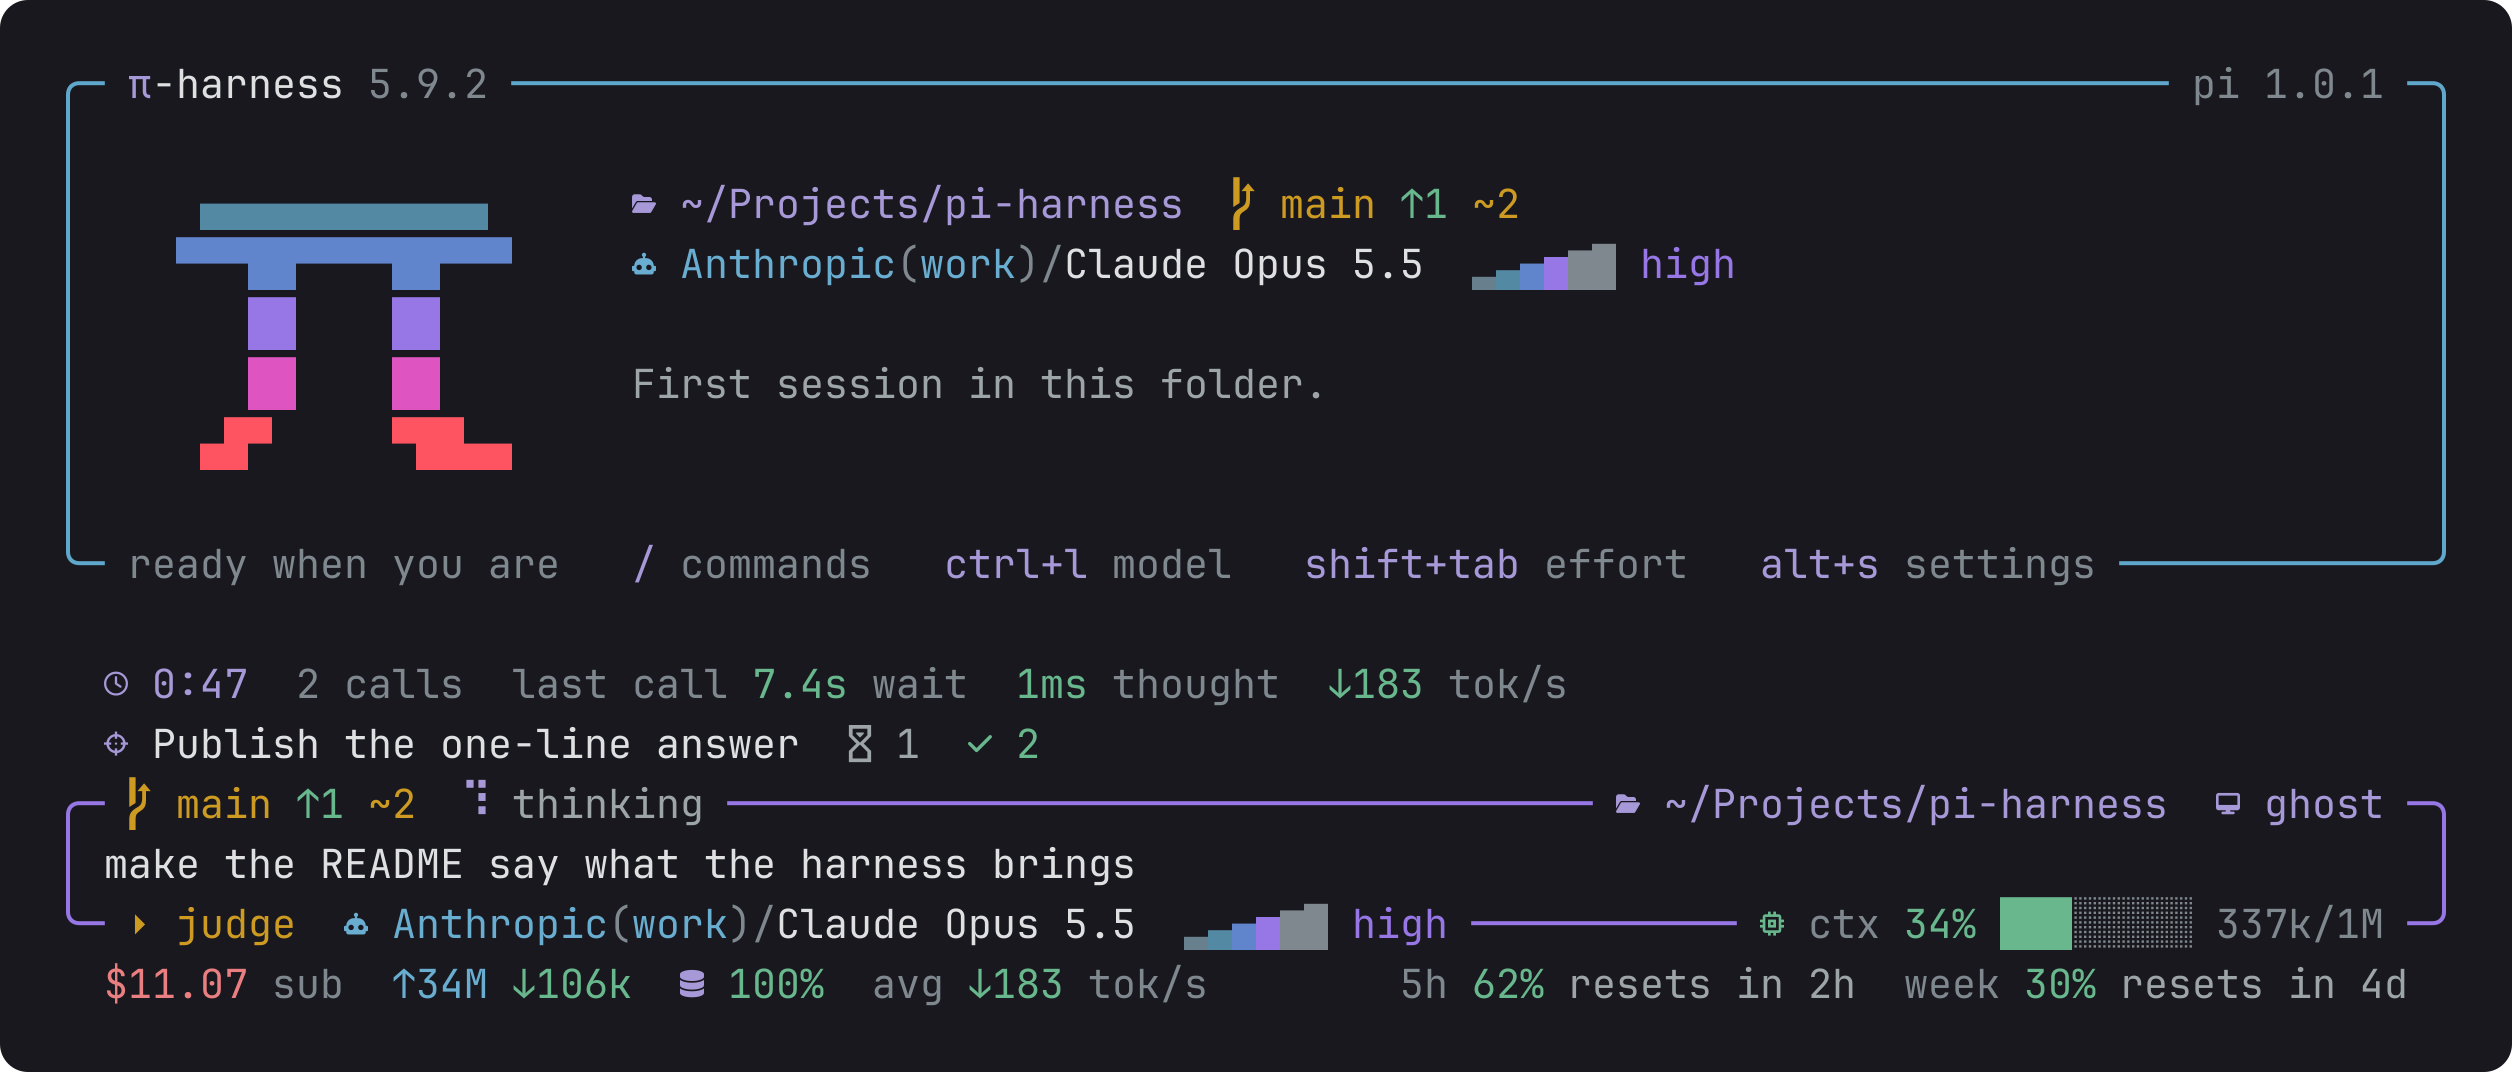
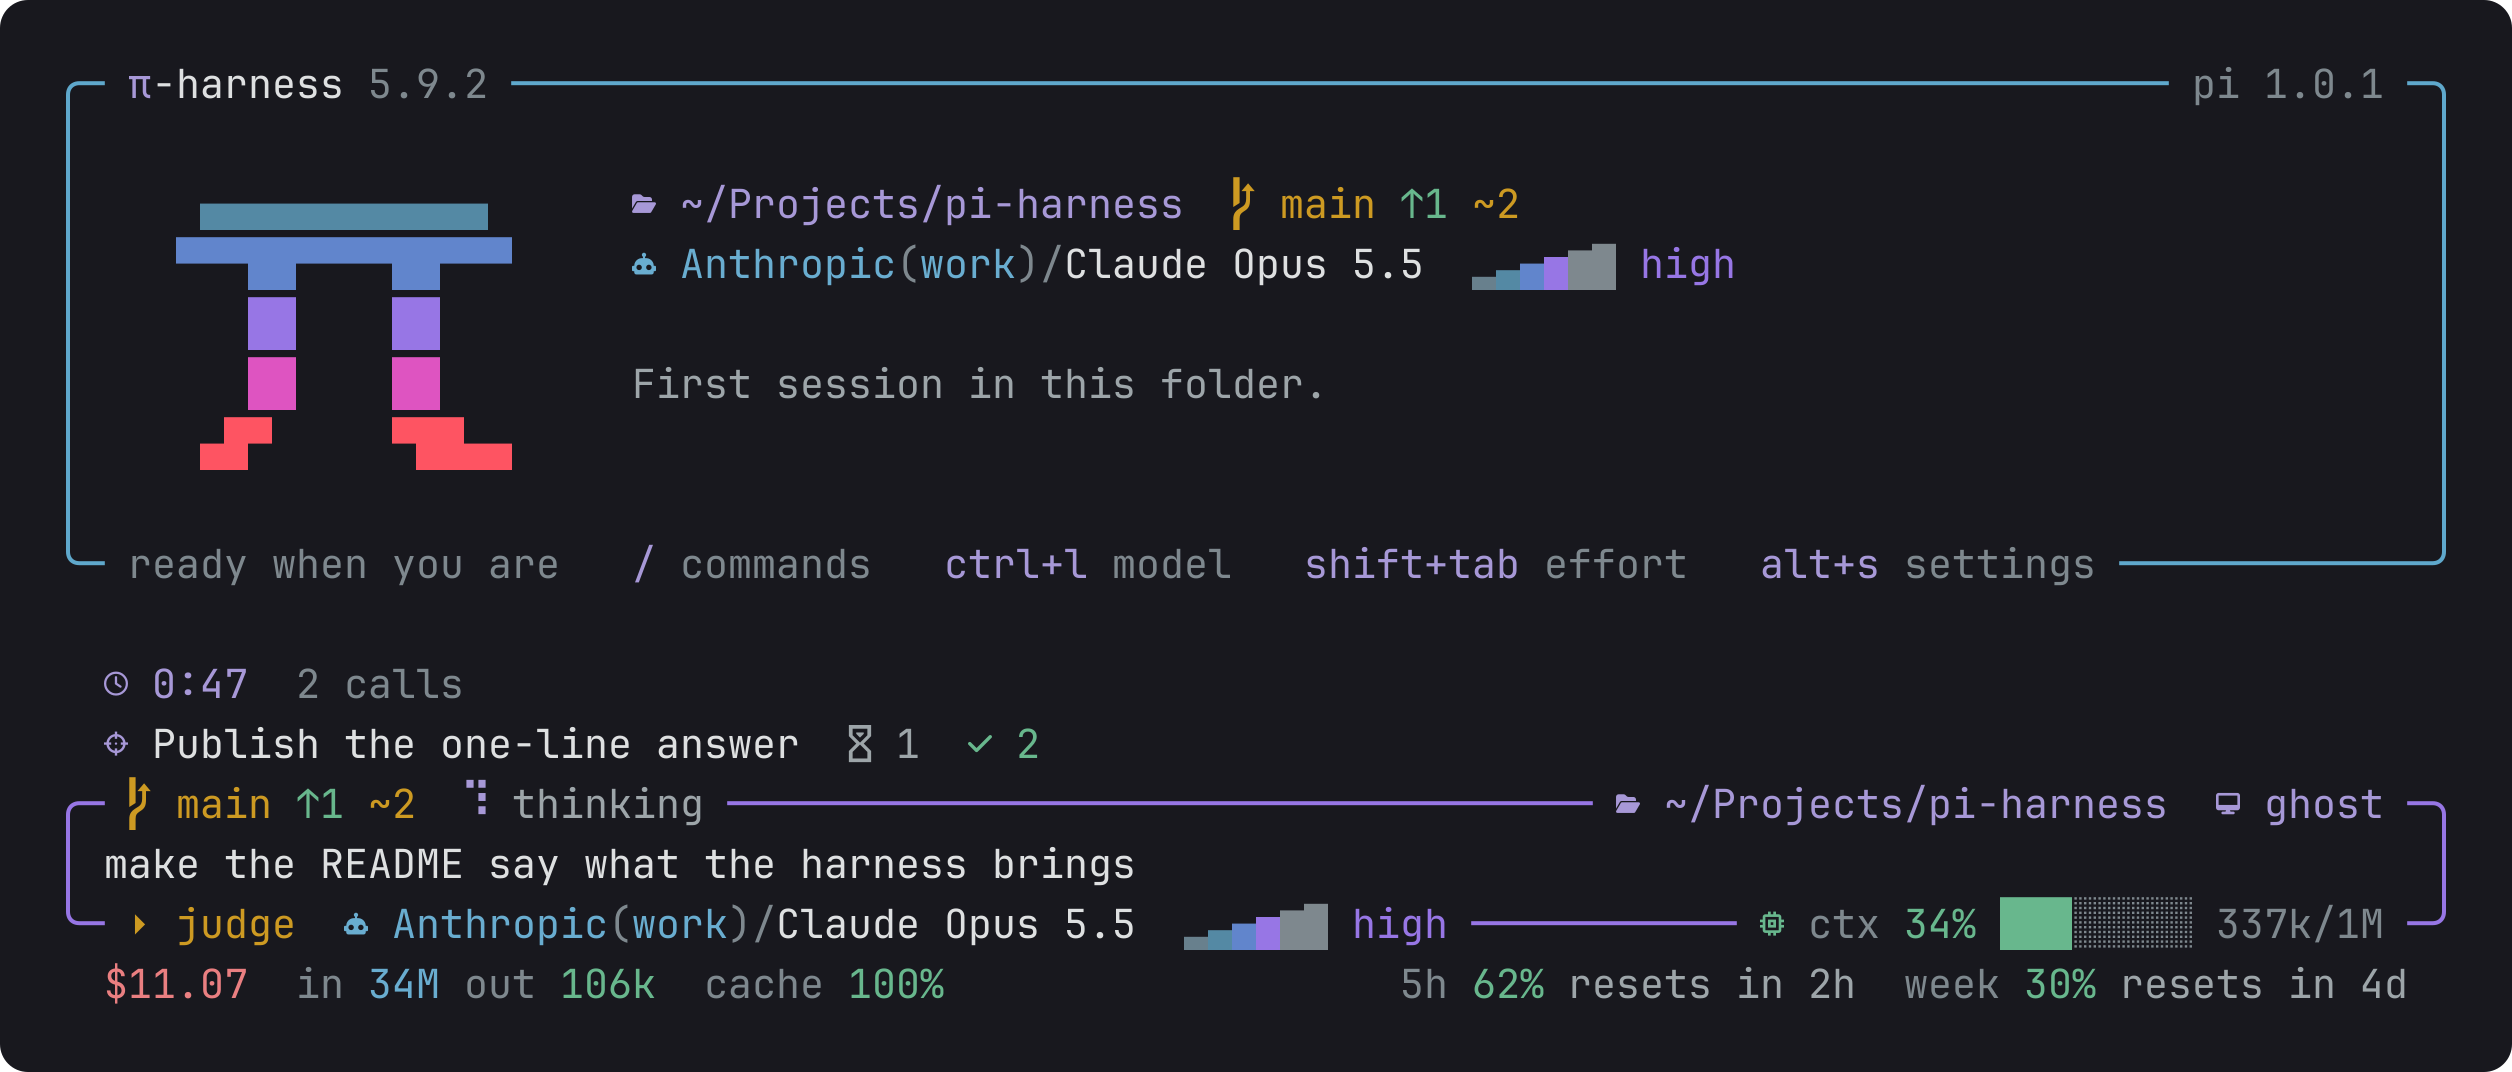
feat(look): the strip says how the run went once it ends, and every number below the editor has its word

diff --git a/packages/look/src/render/segments.ts b/packages/look/src/render/segments.ts
@@ -344,18 +344,18 @@ export const SEGMENTS: Record<BuiltinSegment, Segment> = {
 	elapsed: {
 		priority: 65,
 		describe:
-			"how long the agent has worked on this prompt, and how many calls to the model it made",
-		render: ({ snapshot, glyphs, paint, options }) => {
+			"the run: while the agent works, how long and how many calls to the model; once it answered, the same and what it cost",
+		render: ({ snapshot, glyphs, paint }) => {
 			const run = snapshot.run;
 			if (run === undefined) return undefined;
 			const role: Role = run.running ? "running" : "done";
 			const icon = mark(run.running ? glyphs.running : glyphs.done, paint, role);
 			const time = paint.role(role, stopwatch(run.elapsedMs));
-			const calls =
-				run.requests <= 1
-					? ""
-					: paint.dim(options.labels ? `  ${run.requests} calls` : ` ×${run.requests}`);
-			return { text: `${icon}${time}${calls}`, compact: `${icon}${time}` };
+			const lead = run.running ? time : `${paint.dim("answered in ")}${time}`;
+			const calls = run.requests <= 1 ? "" : paint.dim(`  ${run.requests} calls`);
+			const cost =
+				run.running || run.cost === 0 ? "" : `  ${paint.money(run.cost, money(run.cost))}`;
+			return { text: `${icon}${lead}${calls}${cost}`, compact: `${icon}${time}` };
 		},
 	},
 	last: {
@@ -440,9 +440,10 @@ export const SEGMENTS: Record<BuiltinSegment, Segment> = {
 			// A session that spent nothing has nothing to say yet.
 			if (amount === 0) return undefined;
 			const value = paint.money(amount, money(amount));
-			const sub = snapshot.subscription ? paint.dim(" sub") : "";
+			// On a plan nothing is billed per token: the amount is what the tokens would cost.
+			const what = paint.dim(snapshot.subscription ? " at API prices" : " this session");
 			const icon = glyphs.cost === "$" ? "" : mark(glyphs.cost, paint, "cost");
-			return { text: `${icon}${value}${sub}`, compact: `${icon}${value}` };
+			return { text: `${icon}${value}${what}`, compact: `${icon}${value}` };
 		},
 	},
 	tokens: {
@@ -453,12 +454,13 @@ export const SEGMENTS: Record<BuiltinSegment, Segment> = {
 			const totals = snapshot.totals;
 			if (tokensOf(totals) === 0) return undefined;
 			// Everything sent, not just the uncached part: `66 in` next to a million cached reads is a lie.
-			const sent = `${paint.role("sent", glyphs.sent)}${paint.role("sent", count(promptOf(totals)))}`;
-			const got = `${paint.role("received", glyphs.received)}${paint.role("received", count(totals.output))}`;
-			if (!options.labels) return { text: `${sent} ${got}` };
+			const sent = paint.role("sent", count(promptOf(totals)));
+			const got = paint.role("received", count(totals.output));
+			const arrows = `${paint.role("sent", glyphs.sent)}${sent} ${paint.role("received", glyphs.received)}${got}`;
+			if (!options.labels) return { text: arrows };
 			return {
-				text: `${sent}${paint.dim(" in")} ${got}${paint.dim(" out")}`,
-				compact: `${sent} ${got}`,
+				text: `${paint.dim("in ")}${sent}  ${paint.dim("out ")}${got}`,
+				compact: `${paint.dim("in ")}${sent} ${paint.dim("out ")}${got}`,
 			};
 		},
 	},
@@ -476,8 +478,8 @@ export const SEGMENTS: Record<BuiltinSegment, Segment> = {
 			const value =
 				hit >= 90 ? paint.role("done", percent(hit)) : paint.stress(100 - hit, percent(hit));
 			return {
-				text: `${icon}${value}${options.labels ? paint.dim(" cached") : ""}`,
-				compact: `${icon}${value}`,
+				text: options.labels ? `${paint.dim("cache ")}${value}` : `${icon}${value}`,
+				compact: options.labels ? `${paint.dim("cache ")}${value}` : `${icon}${value}`,
 			};
 		},
 	},
@@ -485,17 +487,13 @@ export const SEGMENTS: Record<BuiltinSegment, Segment> = {
 		priority: 25,
 		describe:
 			"the session's average speeds: ↓ the model writing, ↑ it reading the prompt, cache included",
-		render: ({ snapshot, glyphs, paint }) => {
+		render: ({ snapshot, paint }) => {
 			const { decode, prefill } = snapshot.averages;
 			if (decode === undefined && prefill === undefined) return undefined;
 			const down =
-				decode === undefined
-					? ""
-					: `${paint.role("received", glyphs.received)}${paint.role("speed", rate(decode))}`;
+				decode === undefined ? "" : `${paint.dim("out ")}${paint.role("speed", rate(decode))}`;
 			const up =
-				prefill === undefined
-					? ""
-					: `${paint.role("sent", glyphs.sent)}${paint.role("sent", rate(prefill))}`;
+				prefill === undefined ? "" : `${paint.dim("in ")}${paint.role("sent", rate(prefill))}`;
 			const label = paint.dim("avg ");
 			const unit = paint.dim(" tok/s");
 			return {

diff --git a/packages/look/test/ui.test.ts b/packages/look/test/ui.test.ts
@@ -182,22 +182,25 @@ describe("strip and footer", () => {
 	});
 
 	test("the strip lines up with the text in the frame", () => {
-		const data = snapshot({ run: { running: false, elapsedMs: 9_000, requests: 1 } });
-		expect(new StripComponent(screen(data)).render(80).map(plain)).toEqual(["  0:09"]);
+		const data = snapshot({ run: { running: false, elapsedMs: 9_000, requests: 1, cost: 0 } });
+		expect(new StripComponent(screen(data)).render(80).map(plain)).toEqual(["  answered in 0:09"]);
 	});
 
 	test("the tasks sit on the right of the strip when there is room, and under it when not", () => {
 		const tasks = tasksOf("draw the strip");
-		const data = snapshot({ tasks, run: { running: false, elapsedMs: 9_000, requests: 1 } });
+		const data = snapshot({
+			tasks,
+			run: { running: false, elapsedMs: 9_000, requests: 1, cost: 0 },
+		});
 		const strip = new StripComponent(screen(data, { slots: { stripRight: ["tasks"] } }));
 
 		const [wide = ""] = strip.render(100).map(plain);
 		expect(strip.render(100)).toHaveLength(1);
-		expect(wide).toMatch(/^ {2}0:09 +> draw the strip$/);
+		expect(wide).toMatch(/^ {2}answered in 0:09 +> draw the strip$/);
 		expect(wide).toHaveLength(98);
 
 		// Narrower than the room kept for the strip: the tasks get their own line, on the left.
-		expect(strip.render(70).map(plain)).toEqual(["  0:09", "  > draw the strip"]);
+		expect(strip.render(70).map(plain)).toEqual(["  answered in 0:09", "  > draw the strip"]);
 	});
 
 	test("on its own line a long step uses the whole width, and its words give way before its counts", () => {
@@ -217,7 +220,7 @@ describe("strip and footer", () => {
 		const tasks = tasksOf("draw the strip", "frame");
 		const busy = snapshot({
 			tasks,
-			run: { running: true, elapsedMs: 3_600_000, requests: 40 },
+			run: { running: true, elapsedMs: 3_600_000, requests: 40, cost: 0 },
 			last: {
 				firstTokenMs: 6_600,
 				generationMs: 3_300,
@@ -235,7 +238,10 @@ describe("strip and footer", () => {
 	test("the strip's width does not move the tasks between lines", () => {
 		const tasks = tasksOf("draw the strip");
 		const idle = snapshot({ tasks });
-		const busy = snapshot({ tasks, run: { running: true, elapsedMs: 3_600_000, requests: 40 } });
+		const busy = snapshot({
+			tasks,
+			run: { running: true, elapsedMs: 3_600_000, requests: 40, cost: 0 },
+		});
 		expect(stripLines(idle)).toBe(stripLines(busy));
 	});
 
@@ -249,7 +255,7 @@ describe("strip and footer", () => {
 		const hooks = { attach: () => {}, detach: () => {} };
 
 		const framed = new FooterComponent(fakeTui(), footerData, screen(data), hooks);
-		expect(framed.render(80).map(plain)).toEqual(["  $1.500"]);
+		expect(framed.render(80).map(plain)).toEqual(["  $1.500 this session"]);
 
 		const bare = new FooterComponent(
 			fakeTui(),

diff --git a/packages/look/test/segments.test.ts b/packages/look/test/segments.test.ts
@@ -236,8 +236,8 @@ describe("segments", () => {
 
 	test("the run is a stopwatch, which keeps its shape as it counts", () => {
 		const run = (elapsedMs: number, requests: number) =>
-			text(["elapsed"], snapshot({ run: { running: true, elapsedMs, requests } }));
-		expect(run(12_300, 3)).toEqual(["0:12 ×3"]);
+			text(["elapsed"], snapshot({ run: { running: true, elapsedMs, requests, cost: 0 } }));
+		expect(run(12_300, 3)).toEqual(["0:12  3 calls"]);
 		expect(run(3_725_000, 1)).toEqual(["1:02:05"]);
 	});
 
@@ -253,8 +253,8 @@ describe("segments", () => {
 			subscription: true,
 		});
 		expect(text(["average", "cost", "cache", "tokens"], data)).toEqual([
-			"avg v290 ^31k tok/s",
-			"$0.139 sub",
+			"avg out 290 in 31k tok/s",
+			"$0.139 at API prices",
 			"R 98%",
 			// Sent is the whole prompt, cache included: 2.4k fresh plus 83k read.
 			"^85k v347",
@@ -309,7 +309,7 @@ const request = (decode: number | undefined, waitMs: number | undefined, output:
 			usage: { input: 2, output, cacheRead: 80_000, cacheWrite: 0, cost: 0 },
 			estimated: false,
 		},
-		run: { running: true, elapsedMs: 9_000, requests: 1 },
+		run: { running: true, elapsedMs: 9_000, requests: 1, cost: 0 },
 	});
 
 describe("stable widths", () => {
@@ -348,15 +348,15 @@ describe("labels", () => {
 		};
 		const data = snapshot({
 			last,
-			run: { running: false, elapsedMs: 8_000, requests: 2 },
+			run: { running: false, elapsedMs: 8_000, requests: 2, cost: 0 },
 			cacheHit: 97,
 		});
 		expect(text(["elapsed", "last", "tokens", "cache", "context"], data, { labels: true })).toEqual(
 			[
-				"0:08  2 calls",
+				"answered in 0:08  2 calls",
 				"last call 1.4s wait  900ms thought  v31 tok/s",
-				"^85k in v347 out",
-				"R 97% cached",
+				"in 85k  out 347",
+				"cache 97%",
 				"ctx 43% ###----- 431k/1M",
 			],
 		);

diff --git a/packages/look/src/index.ts b/packages/look/src/index.ts
@@ -61,6 +61,7 @@ import { registerToolFrames } from "./ui/tool-frame.ts";
 import { type Activity, describe, draftedTool } from "./ui/working.ts";
 
 export { SEGMENT_IDS, SEGMENTS, type SegmentId } from "./render/segments.ts";
+import type { SegmentId } from "./render/segments.ts";
 export { ROLE_TOKENS } from "./render/paint.ts";
 
 const STRIP_WIDGET = "pi-look:strip";
@@ -267,10 +268,17 @@ function explain(screen: Screen): string {
 	const snapshot = screen.snapshot();
 	const paint = screen.paint();
 	const lines: string[] = [paint.bold("What is on screen")];
-	for (const name of Object.keys(SLOT_TITLES) as SlotName[]) {
-		const ids = screen.slot(name);
+	const groups: [string, readonly SegmentId[]][] = [
+		...(Object.keys(SLOT_TITLES) as SlotName[]).map((name): [string, readonly SegmentId[]] => [
+			SLOT_TITLES[name],
+			screen.slot(name),
+		]),
+		// Not on screen: the timings of the last call, kept for when an answer feels slow.
+		["The last call to the model", ["last", "wait", "speed", "server", "request"]],
+	];
+	for (const [title, ids] of groups) {
 		if (ids.length === 0) continue;
-		lines.push("", paint.role("brand", SLOT_TITLES[name]));
+		lines.push("", paint.role("brand", title));
 		for (const id of ids) {
 			const [piece] = renderSegments([id], {
 				snapshot,
@@ -285,13 +293,7 @@ function explain(screen: Screen): string {
 			lines.push(`  ${shown}`, `    ${paint.dim(`${id}: ${meaning}`)}`);
 		}
 	}
-	lines.push(
-		"",
-		paint.dim("Arrows are from where you sit: ↑ in is sent to the model, ↓ out comes back."),
-		paint.dim(
-			"Slots and labels live under look. in ~/.pi/agent/extensions/pi-harness/settings.json.",
-		),
-	);
+	lines.push("", paint.dim("In is what was sent to the model, out is what came back."));
 	return lines.join("\n");
 }
 

diff --git a/packages/look/src/data/telemetry.ts b/packages/look/src/data/telemetry.ts
@@ -38,6 +38,8 @@ export interface RunView {
 	running: boolean;
 	elapsedMs: number;
 	requests: number;
+	/** What the run's answers cost so far, at the provider's prices. */
+	cost: number;
 }
 
 interface Request {
@@ -56,6 +58,7 @@ interface Run {
 	startedAt: number;
 	endedAt: number | undefined;
 	requests: number;
+	cost: number;
 }
 
 interface UsageLike {
@@ -86,7 +89,7 @@ export class Telemetry {
 	}
 
 	runStarted(): void {
-		this.#run = { startedAt: this.#now(), endedAt: undefined, requests: 0 };
+		this.#run = { startedAt: this.#now(), endedAt: undefined, requests: 0, cost: 0 };
 	}
 
 	runEnded(): void {
@@ -137,6 +140,7 @@ export class Telemetry {
 		const now = this.#now();
 		request.endedAt = now;
 		request.usage = usageTotals(usage);
+		if (this.#run !== undefined) this.#run.cost += usage.cost.total;
 		if (request.usage.output === 0 && request.firstTokenAt === undefined) return undefined;
 
 		if (request.characters > 0 && request.usage.output > 0) {
@@ -172,6 +176,7 @@ export class Telemetry {
 			running,
 			elapsedMs: (run.endedAt ?? this.#now()) - run.startedAt,
 			requests: run.requests,
+			cost: run.cost,
 		};
 	}
 

diff --git a/packages/look/test/data.test.ts b/packages/look/test/data.test.ts
@@ -171,7 +171,18 @@ describe("telemetry", () => {
 		time.advance(3_000);
 		telemetry.runEnded();
 		time.advance(60_000);
-		expect(telemetry.run()).toEqual({ running: false, elapsedMs: 3_000, requests: 2 });
+		expect(telemetry.run()).toEqual({ running: false, elapsedMs: 3_000, requests: 2, cost: 0 });
+	});
+
+	test("adds up what the run's answers cost", () => {
+		const telemetry = new Telemetry(clock().now);
+		telemetry.requestStarted();
+		telemetry.answerGrew("a", usage({ output: 1 }), "writing");
+		telemetry.answerEnded(usage({ output: 10, cost: 0.12 }));
+		telemetry.requestStarted();
+		telemetry.answerGrew("b", usage({ output: 1 }), "writing");
+		telemetry.answerEnded(usage({ output: 10, cost: 0.19 }));
+		expect(telemetry.run()?.cost).toBeCloseTo(0.31);
 	});
 
 	test("an answer that never wrote anything leaves no record", () => {

diff --git a/packages/look/src/settings.ts b/packages/look/src/settings.ts
@@ -26,7 +26,7 @@ function fixed<T>(value: T): Fixed<T> {
 export const PERMISSION_MODE: SegmentId = "status:pi-ask-permission:mode";
 
 /** The line above the editor: how long the agent has worked, and the last call that finished. */
-export const strip = fixed<SegmentId[]>(["elapsed", "last"]);
+export const strip = fixed<SegmentId[]>(["elapsed"]);
 /** The other side of that line, or a line of its own under it when it does not fit. */
 export const stripRight = fixed<SegmentId[]>(["tasks", "peers"]);
 /** After the working spinner on the editor's top edge. */

diff --git a/scripts/docs/look.ts b/scripts/docs/look.ts
@@ -74,7 +74,7 @@ function snapshot(theme: Theme): Snapshot {
 		totals: { input: 120_000, output: 106_000, cacheRead: 33_900_000, cacheWrite: 0, cost: 11.07 },
 		cacheHit: 100,
 		subscription: true,
-		run: { running: true, elapsedMs: 47_000, requests: 2 },
+		run: { running: true, elapsedMs: 47_000, requests: 2, cost: 0 },
 		last: {
 			streaming: false,
 			waiting: false,
